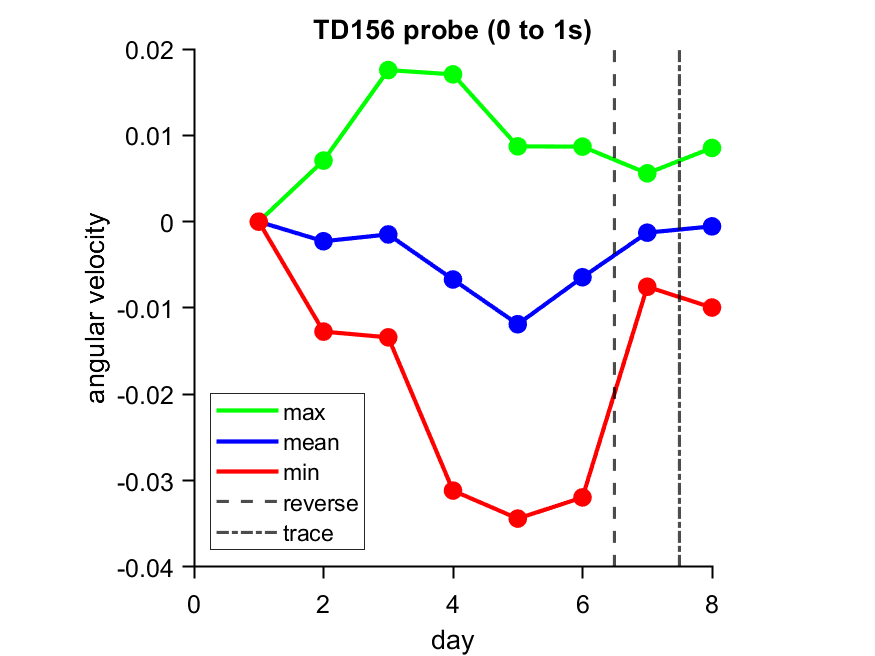
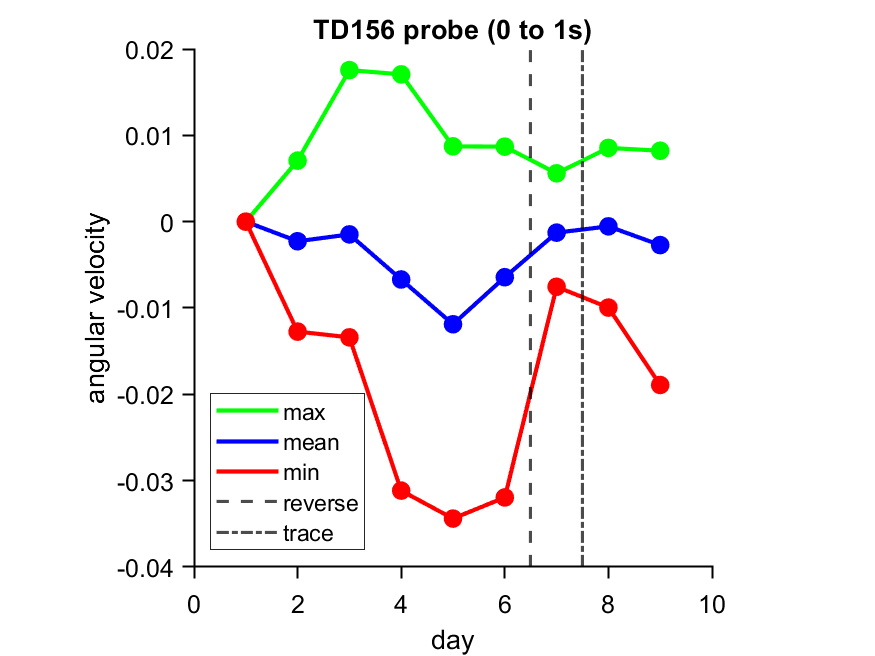
data
data

diff --git a/plotProbeData.m b/plotProbeData.m
@@ -34,9 +34,9 @@ title('TD154 probe (0 to 1s)')
 SetFigBoxDefaults;
 
 %% TD156 data
-mean2 = [-4.2452e-09, -0.0022693, -0.0014784, -0.0066969, -0.011882, -0.0064348, -0.0012733, -0.00054449];
-max2  = [5.6757e-07, 0.0070748, 0.017557, 0.017062, 0.0087232, 0.0086896, 0.0056006, 0.0085419];
-min2  = [-7.0367e-07, -0.012734, -0.0134, -0.031151, -0.034393, -0.03194, -0.0075394, -0.0099478];
+mean2 = [-4.2452e-09, -0.0022693, -0.0014784, -0.0066969, -0.011882, -0.0064348, -0.0012733, -0.00054449, -0.0027113];
+max2  = [5.6757e-07, 0.0070748, 0.017557, 0.017062, 0.0087232, 0.0086896, 0.0056006, 0.0085419, 0.008217];
+min2  = [-7.0367e-07, -0.012734, -0.0134, -0.031151, -0.034393, -0.03194, -0.0075394, -0.0099478, -0.018919];
 
 days = 1:length(mean2);
 
@@ -66,8 +66,9 @@ title('TD156 probe (0 to 1s)')
 SetFigBoxDefaults;
 
 %% --- Save figures --- 
-doSave = 1;
+doSave = 0;
 if doSave
     saveas(figure(1), 'TD154_probes.png')
     saveas(figure(2), 'TD156_probes.png')
 end
+

diff --git a/helpers/saveDatForBox.m b/helpers/saveDatForBox.m
@@ -35,9 +35,9 @@ cue_to_laser_time = 2; % for regular conditions (normal/reverse) time is 1 s, fo
 lPower  = 6; % laser power
 
 %% Extract the encoder movement and get walking start and stop
-extract_encoder_movement; % Encoder is synchronized to camera, laser is not
+extract_encoder_movement; % Encoder and laser is synchronized to camera
 
-%% save cue time
+%% save cue time and synchronize with camera
 if exist('cue1','var')
     cue1  = cue1(first_pulse_index:last_pulse_index);
     [a1,a2] = get_cue_onset(cue1, samplingFrequency);

diff --git a/Single_D1_Analysis.m b/Single_D1_Analysis.m
@@ -127,7 +127,7 @@ session = parts{5};
 tokens = regexp(session, '^(\d+)_', 'tokens'); % extracts session number before underscore
 sessionNum = str2double(tokens{1}{1});
 
-doSave = 0;
+doSave = 1;
 if doSave
     saveas(figure(1), sprintf('%s_session%d.png', name, sessionNum))
     saveas(figure(2), sprintf('%s_session%d_Cue1trials.png', name, sessionNum))
